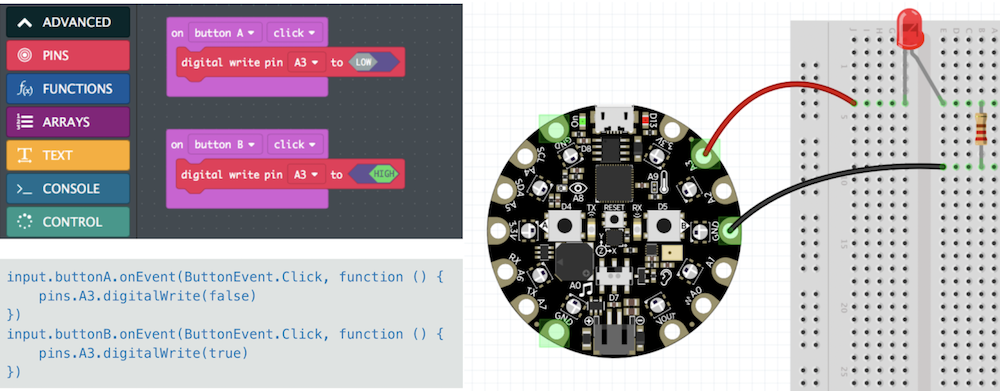
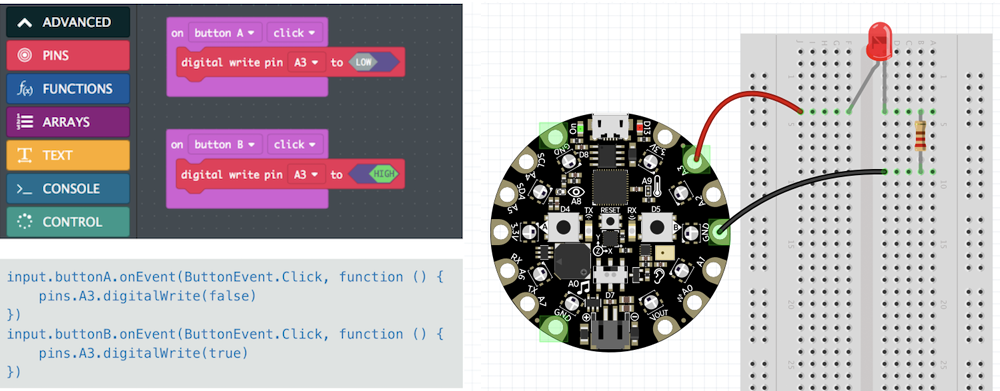
Update breadboard

Changed region(s): [[0.465, 0.0, 1.0, 1.0]]

diff --git a/circuit-playground/readme.md b/circuit-playground/readme.md
@@ -45,9 +45,15 @@ A breadboard provides an easy way to connect lots of tiny components together wi
 
 ## <a name="led"></a>External LED
 
-Let's use a breadboard to connect an LED and a 220 Ohm resistor to the CPE! Connect GND to the short wire of the LED and A2 to the long wire.
+Je kan een breadboard gebruiken om externe electronica makkelijk aan te sluiten aan de playground. Gebruik een LED en een 220 Ohm weerstand. De weerstand zorgt dat je lampje niet beschadigt. 
+
+Let op dat het lange pootje van de LED naar de stroom gaat, en het korte pootje gaat naar GND. De weerstand mag wel aan beide kanten zitten.
 
 ![led](./images/extled.png)
+
+Als je meerdere LEDS wil aansturen kan je ze allemaal aan een eigen poort aansluiten. Ze kunnen wel de GND delen. Gebruik daarvoor het lange gootje van de breadboard.
+
+![led](./images/breadboard_leds.png)
 
 <br>
 <br>
